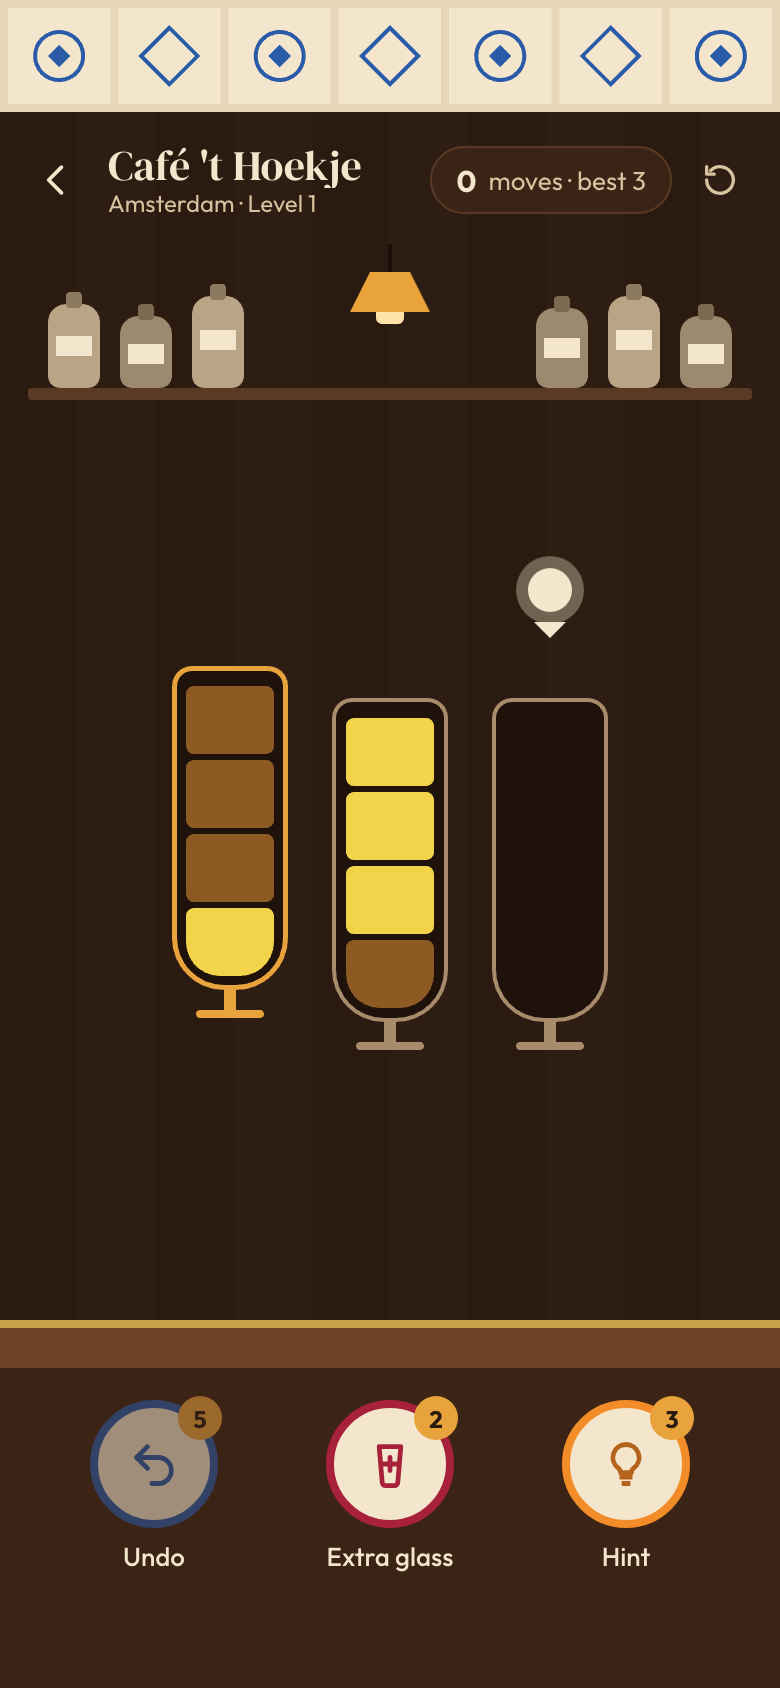
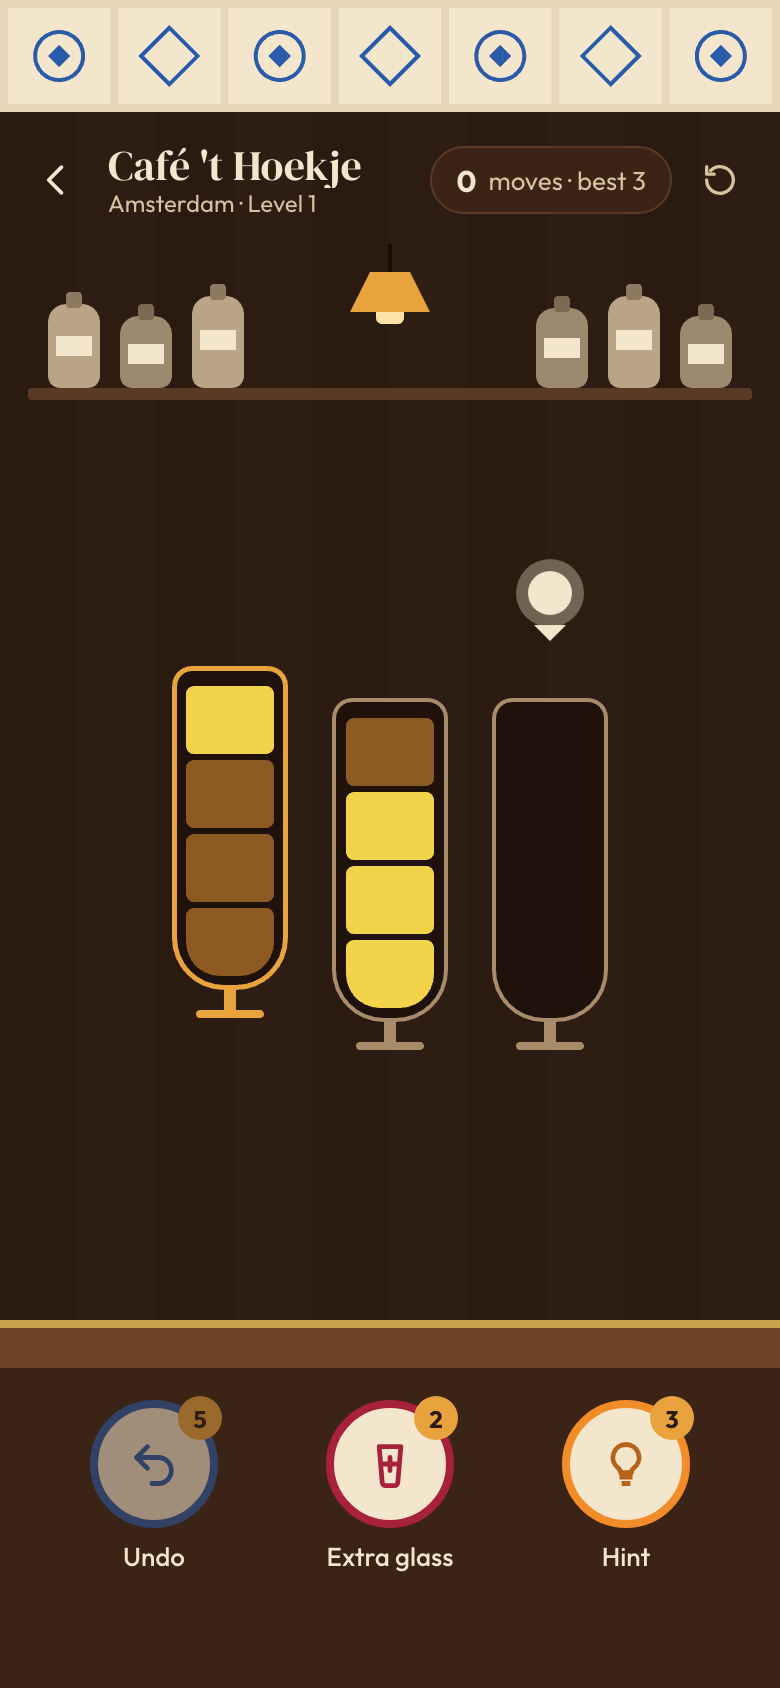
T10: animate pours
The source glass tilts over the target with its mouth down, a stream
arcs into the target as it fills and the source drains, then the glass
settles back (450 ms). Taps during an animation are queued. Completed
glasses glow in the theme accent while a garnish drops in; liquid
surfaces wobble gently. prefers-reduced-motion makes pours instant.

diff --git a/apps/web/src/level/screen.ts b/apps/web/src/level/screen.ts
@@ -1,13 +1,14 @@
 import { Game, type Bottle, type BoosterStock, type Move } from '@pour/engine';
 import type { Theme } from '@pour/themes';
-import { Container } from 'pixi.js';
-import { tween, wait } from '../anim.js';
+import { Container, Graphics } from 'pixi.js';
+import { easeInOut, linear, reducedMotion, tween, wait } from '../anim.js';
 import { esc, icons } from '../icons.js';
 import { createPixi } from '../pixi-util.js';
 import type { Stage } from '../stage.js';
 import { applyTheme, color } from '../theme-css.js';
 import { drawLevelDecor } from './decor.js';
-import { GlassView, type GlassMark } from './glass-view.js';
+import { bodyOrigin, GlassView, type GlassMark } from './glass-view.js';
+import { unitRects } from './geometry.js';
 import { layoutGlasses, type Slot } from './layout.js';
 
 export interface LevelResult {
@@ -68,6 +69,10 @@ export class LevelScreen {
   private liftAnims: ({ cancel: () => void } | null)[] = [];
   private shakes: number[] = [];
   private disposePixi: (() => void) | null = null;
+  /** The pour being animated; its two glasses are drawn by the animation, not by render(). */
+  private pouring: { from: number; to: number } | null = null;
+  /** Taps that arrive during a pour animation run after it, in order. */
+  private queue: number[] = [];
   private destroyed = false;
   private hint: Move | null = null;
   private restarts = 0;
@@ -95,6 +100,7 @@ export class LevelScreen {
     this.disposePixi = dispose;
     this.el.prepend(app.canvas);
     app.stage.addChild(drawLevelDecor(this.theme), this.glassLayer);
+    if (!reducedMotion()) app.ticker.add(() => this.views.forEach((v) => v.wobble(performance.now())));
     this.el.insertAdjacentHTML('beforeend', this.chromeHtml());
     this.bindChrome();
     this.layout();
@@ -142,8 +148,13 @@ export class LevelScreen {
   }
 
   protected onGlass(index: number): void {
+    if (this.pouring) {
+      this.queue.push(index);
+      return;
+    }
     if (this.game.status === 'won') return;
     const before = this.game.selected;
+    const bottlesBefore = this.game.bottles;
     const event = this.game.tap(index);
     this.hint = null;
     this.marks.clear();
@@ -153,8 +164,20 @@ export class LevelScreen {
         break;
       case 'poured':
         this.opts.onEvent?.({ type: 'pour', from: event.from, to: event.to, moves: this.game.moves });
-        this.afterChange();
-        break;
+        void this.animatePour(event.from, event.to, event.amount, bottlesBefore).then(() => {
+          if (this.destroyed) return;
+          if (event.completed)
+            void this.views[event.to]!.celebrate(
+              600,
+              (step) => tween({ duration: 600, ease: linear, onUpdate: step }).done,
+            );
+          this.afterChange();
+          this.render();
+          const next = this.queue.shift();
+          if (next !== undefined) this.onGlass(next);
+        });
+        this.render();
+        return;
       default:
         break;
     }
@@ -209,17 +232,20 @@ export class LevelScreen {
   }
 
   undo(): void {
+    if (this.pouring) return;
     if (!this.game.undo()) return;
     this.afterBooster('undo');
   }
 
   addGlass(): void {
+    if (this.pouring) return;
     if (!this.game.addGlass()) return;
     this.layout();
     this.afterBooster('extraGlass');
   }
 
   useHint(): void {
+    if (this.pouring) return;
     const move = this.game.hint();
     if (!move) return;
     this.hint = move;
@@ -232,6 +258,7 @@ export class LevelScreen {
   }
 
   restart(): void {
+    if (this.pouring) return;
     this.game.restart();
     this.restarts++;
     this.hint = null;
@@ -259,12 +286,90 @@ export class LevelScreen {
   }
 
   /** Positions one glass view and its button from slot, lift and shake. */
+  /**
+   * Pour animation (about 450 ms): the source tilts over the target, a stream
+   * arcs across while the target fills, then the source settles back.
+   */
+  private async animatePour(from: number, to: number, amount: number, before: readonly Bottle[]): Promise<void> {
+    if (reducedMotion()) return;
+    this.pouring = { from, to };
+    const src = this.views[from]!;
+    const dst = this.views[to]!;
+    const ss = this.slots[from]!;
+    const ds = this.slots[to]!;
+    const scale = ss.scale;
+    const geo = dst.geometry;
+    const srcBottle = before[from]!;
+    const dstBottle = this.game.bottles[to]!;
+    const srcStart = srcBottle.units.length;
+    const dstStart = before[to]!.units.length;
+    const drink = this.theme.drinks.find((d) => d.id === srcBottle.units[srcStart - 1]!.drink)!.color;
+    const dir = ds.x >= ss.x ? 1 : -1;
+    const home = { x: src.position.x, y: src.position.y };
+    const tm = { x: ds.x + dst.mouth.x * ds.scale, y: ds.y + dst.mouth.y * ds.scale };
+    // Tilt past horizontal so the mouth points down, with the lower lip just above the target's mouth.
+    const angle = dir * 2.05;
+    const half = (src.geometry.bodyW / 2) * scale;
+    const lip = { x: Math.cos(angle) * dir * half, y: Math.sin(angle) * dir * half };
+    const over = { x: tm.x - dir * 6 * scale - lip.x, y: tm.y - 12 * scale - lip.y };
+    const rest = { x: ss.x + src.mouth.x * scale, y: ss.y + src.mouth.y * scale };
+    const stream = new Graphics();
+    this.glassLayer.addChild(src, stream);
+    const inset = geo.border + geo.padding;
+    const surfaceAt = (level: number) => {
+      const rects = unitRects(geo, dstBottle.capacity);
+      const o = bodyOrigin(geo);
+      const i = Math.min(Math.floor(level), dstBottle.capacity - 1);
+      const r = rects[i]!;
+      const y = level >= dstBottle.capacity ? o.y + inset : r.y + r.h * (1 - (level - Math.floor(level)));
+      return ds.y + y * ds.scale;
+    };
+    const lerp = (a: number, b: number, k: number) => a + (b - a) * k;
+    await tween({
+      duration: 450,
+      ease: linear,
+      onUpdate: (t) => {
+        stream.clear();
+        if (t <= 0.33) {
+          const k = easeInOut(t / 0.33);
+          src.position.set(lerp(home.x, over.x, k), lerp(home.y, over.y, k));
+          src.rotation = angle * k;
+        } else if (t <= 0.78) {
+          const k = (t - 0.33) / 0.45;
+          src.position.set(over.x, over.y);
+          src.rotation = angle;
+          src.draw({ bottle: srcBottle, mark: 'none', level: srcStart - amount * k });
+          const level = dstStart + amount * k;
+          dst.draw({ bottle: dstBottle, mark: 'none', level });
+          const lipX = over.x + lip.x;
+          const lipY = over.y + lip.y;
+          const width = 5 * scale * Math.min(1, Math.sin(Math.PI * k) * 3);
+          stream
+            .moveTo(lipX, lipY)
+            .quadraticCurveTo(lerp(lipX, tm.x, 0.7), lipY - 4 * scale, tm.x, surfaceAt(level))
+            .stroke({ width, color: drink, cap: 'round' });
+        } else {
+          const k = easeInOut((t - 0.78) / 0.22);
+          src.draw({ bottle: this.game.bottles[from]!, mark: 'none' });
+          dst.draw({ bottle: dstBottle, mark: 'none' });
+          src.position.set(lerp(over.x, rest.x, k), lerp(over.y, rest.y, k));
+          src.rotation = angle * (1 - k);
+        }
+      },
+    }).done;
+    stream.destroy();
+    src.rotation = 0;
+    this.lifts[from] = 0;
+    this.liftAnims[from]?.cancel();
+    this.pouring = null;
+  }
+
   protected place(i: number): void {
     const slot = this.slots[i]!;
     const view = this.views[i]!;
     const lift = this.lifts[i]! * slot.scale;
     const x = slot.x + this.shakes[i]!;
-    view.position.set(x, slot.y - lift);
+    view.position.set(x + view.mouth.x * slot.scale, slot.y + view.mouth.y * slot.scale - lift);
     view.scale.set(slot.scale);
     const btn = this.glassButtons[i]!;
     btn.style.left = `${x}px`;
@@ -289,12 +394,13 @@ export class LevelScreen {
   render(): void {
     const g = this.game;
     g.bottles.forEach((bottle, i) => {
-      this.views[i]!.draw({ bottle, mark: this.markFor(i) });
-      this.animateLift(i, g.selected === i ? LIFT : 0);
-      this.place(i);
       const btn = this.glassButtons[i]!;
       btn.setAttribute('aria-label', this.glassLabel(i, bottle));
       btn.setAttribute('aria-pressed', String(g.selected === i));
+      if (this.pouring && (this.pouring.from === i || this.pouring.to === i)) return;
+      this.views[i]!.draw({ bottle, mark: this.markFor(i) });
+      this.animateLift(i, g.selected === i ? LIFT : 0);
+      this.place(i);
     });
     this.text('.lv-move-count', String(g.moves));
     this.booster('undo', g.stock.undo, g.canUndo());

diff --git a/apps/web/src/level/glass-view.ts b/apps/web/src/level/glass-view.ts
@@ -10,6 +10,11 @@ export type GlassMark = 'none' | 'selected' | 'hint' | 'reject';
 export interface GlassState {
   bottle: Bottle;
   mark: GlassMark;
+  /**
+   * Visible liquid in units (may be fractional) while a pour animates. The
+   * bottle's units are drawn up to this level; the rest stay empty.
+   */
+  level?: number;
 }
 
 /** Top-left of the glass body inside its slot. */
@@ -18,18 +23,78 @@ export function bodyOrigin(g: GlassGeometry): { x: number; y: number } {
 }
 
 /**
- * One glass drawn in Pixi. The container's origin is the slot's top-left; the
- * screen positions and lifts it. Redraw after every state change.
+ * One glass drawn in Pixi. Its pivot is the centre of the mouth, so pours
+ * can tilt it around the rim; `mouth` gives that point in slot coordinates.
+ * Redraw after every state change.
  */
 export class GlassView extends Container {
   readonly geometry: GlassGeometry;
+  readonly mouth: { x: number; y: number };
+  private readonly glow = new Graphics();
   private readonly gfx = new Graphics();
+  private readonly surface = new Graphics();
   private readonly overlay = new Container();
+  /** Top edge and width of the topmost visible unit, for the surface wobble. */
+  private surfaceLine: { x: number; y: number; w: number } | null = null;
+  private readonly phase = Math.random() * Math.PI * 2;
 
   constructor(private readonly theme: Theme) {
     super();
     this.geometry = glassGeometry(theme);
-    this.addChild(this.gfx, this.overlay);
+    const o = bodyOrigin(this.geometry);
+    this.mouth = { x: SLOT_W / 2, y: o.y };
+    this.pivot.set(this.mouth.x, this.mouth.y);
+    this.addChild(this.glow, this.gfx, this.surface, this.overlay);
+  }
+
+  /** Subtle idle movement of the liquid surface. Call every frame with the time in ms. */
+  wobble(ms: number): void {
+    const s = this.surface.clear();
+    const line = this.surfaceLine;
+    if (!line) return;
+    const dy = Math.sin(ms / 700 + this.phase) * 0.9;
+    const tilt = Math.sin(ms / 1100 + this.phase) * 0.8;
+    s.moveTo(line.x + 3, line.y + 2.5 + dy - tilt)
+      .lineTo(line.x + line.w - 3, line.y + 2.5 + dy + tilt)
+      .stroke({ width: 1.5, color: '#FFFFFF', alpha: 0.28, cap: 'round' });
+  }
+
+  /** Completed glass: a brief glow in the theme accent and a garnish dropping in. */
+  celebrate(duration: number, onFrame: (step: (t: number) => void) => Promise<void>): Promise<void> {
+    const o = bodyOrigin(this.geometry);
+    const garnish = new Graphics();
+    const accent = this.theme.colors.accent;
+    garnish.circle(0, 0, 7).fill({ color: accent }).stroke({ width: 2, color: this.theme.colors.text });
+    garnish
+      .moveTo(-5, 0)
+      .lineTo(5, 0)
+      .moveTo(0, -5)
+      .lineTo(0, 5)
+      .stroke({ width: 1, color: this.theme.colors.text, alpha: 0.7 });
+    this.overlay.addChild(garnish);
+    return onFrame((t) => {
+      const g = this.glow.clear();
+      const a = Math.sin(Math.PI * t) * 0.55;
+      box(
+        g,
+        o.x - 6,
+        o.y - 6,
+        this.geometry.bodyW + 12,
+        this.geometry.bodyH + 12,
+        this.geometry.radius.map((r) => r + 6) as unknown as [number, number, number, number],
+        {
+          color: accent,
+          alpha: a,
+        },
+      );
+      const drop = Math.min(1, t * 1.8);
+      garnish.position.set(SLOT_W / 2 + 8, o.y - 46 + drop * 50);
+      garnish.rotation = drop * 1.4;
+      garnish.alpha = t < 0.75 ? 1 : 1 - (t - 0.75) / 0.25;
+    }).then(() => {
+      this.glow.clear();
+      garnish.destroy();
+    });
   }
 
   draw(state: GlassState): void {
@@ -63,8 +128,14 @@ export class GlassView extends Container {
     // Units.
     const rects = unitRects(geo, bottle.capacity);
     const bottomRadius = Math.max(4, geo.radius[2] - 8);
+    const level = state.level ?? bottle.units.length;
+    this.surfaceLine = null;
     bottle.units.forEach((unit, i) => {
-      const r = rects[i]!;
+      if (i >= level) return;
+      const full = rects[i]!;
+      const part = Math.min(1, level - i);
+      const r = { ...full, y: full.y + full.h * (1 - part), h: full.h * part };
+      if (!unit.hidden) this.surfaceLine = { x: o.x + r.x, y: o.y + r.y, w: r.w };
       const radii = i === 0 ? ([4, 4, bottomRadius, bottomRadius] as const) : ([4, 4, 4, 4] as const);
       if (unit.hidden) {
         box(g, o.x + r.x, o.y + r.y, r.w, r.h, radii, color(theme, 'hiddenUnit', theme.colors.surface));
@@ -83,9 +154,10 @@ export class GlassView extends Container {
         return;
       }
       const drink = drinkById(theme, unit.drink);
+      if (r.h < 0.5) return;
       box(g, o.x + r.x, o.y + r.y, r.w, r.h, radii, drink.color);
       // Stout gets its head on the top unit of a run.
-      const above = bottle.units[i + 1];
+      const above = i + 1 < level ? bottle.units[i + 1] : undefined;
       if (drink.foam && (!above || above.drink !== unit.drink))
         box(g, o.x + r.x, o.y + r.y, r.w, 5, [4, 4, 0, 0], drink.foam);
     });

diff --git a/apps/web/e2e/pour.spec.ts b/apps/web/e2e/pour.spec.ts
@@ -1,0 +1,30 @@
+import { expect, test } from '@playwright/test';
+import bar1 from '../../../levels/amsterdam/1.json' with { type: 'json' };
+import { open, shot } from './helpers';
+
+test.use({ reducedMotion: 'no-preference' });
+
+const glass = (i: number) => `.lv-glass[data-index="${i}"]`;
+
+test('animates a pour and shows it mid-stream', async ({ page }) => {
+  await open(page, '#/level/1');
+  const [from, to] = bar1.levels[0]!.solution[0]!;
+  await page.locator(glass(from!)).click();
+  await page.waitForTimeout(200);
+  // Tap inside the page so the screenshot lands mid-animation.
+  await page.evaluate((sel) => (document.querySelector(sel) as HTMLButtonElement).click(), glass(to!));
+  await page.waitForTimeout(240);
+  await shot(page, 'T10-pour-mid');
+  await expect(page.locator('.lv-move-count')).toHaveText('1');
+});
+
+test('queues taps made during an animation instead of dropping them', async ({ page }) => {
+  await open(page, '#/level/2');
+  const level = bar1.levels[1]!;
+  for (const [from, to] of level.solution) {
+    await page.locator(glass(from!)).click({ delay: 0 });
+    await page.locator(glass(to!)).click({ delay: 0 });
+  }
+  await expect(page.getByRole('dialog')).toBeVisible({ timeout: 15_000 });
+  await expect(page.locator('.lv-move-count')).toHaveText(String(level.best));
+});

diff --git a/TASKS.md b/TASKS.md
@@ -83,11 +83,11 @@ Depends on: T08
 - [x] First-level guidance for a new player: on level 1, a pointer shows "tap this glass, then that one" for the first pour (no text walls).
 - [x] Playwright e2e test plays the solver's solution for Amsterdam level 1 by tapping and reaches a 3-star win. A second test loads golden Tokyo level 327 with the Tokyo theme and wins it the same way.
 
-### T10 · Pour animation and feel · `todo` · M
+### T10 · Pour animation and feel · `in-review` · M
 Depends on: T09
-- [ ] Pour animation per `docs/spec/screens.md` (tilt, arcing stream, fill, settle, about 450 ms); taps during animation are queued.
-- [ ] Completed-glass celebration; subtle idle wobble of liquid surfaces.
-- [ ] Respects `prefers-reduced-motion` (instant pours).
+- [x] Pour animation per `docs/spec/screens.md` (tilt, arcing stream, fill, settle, about 450 ms); taps during animation are queued.
+- [x] Completed-glass celebration; subtle idle wobble of liquid surfaces.
+- [x] Respects `prefers-reduced-motion` (instant pours).
 
 ### T11 · Blocker rendering · `todo` · M
 Depends on: T09
